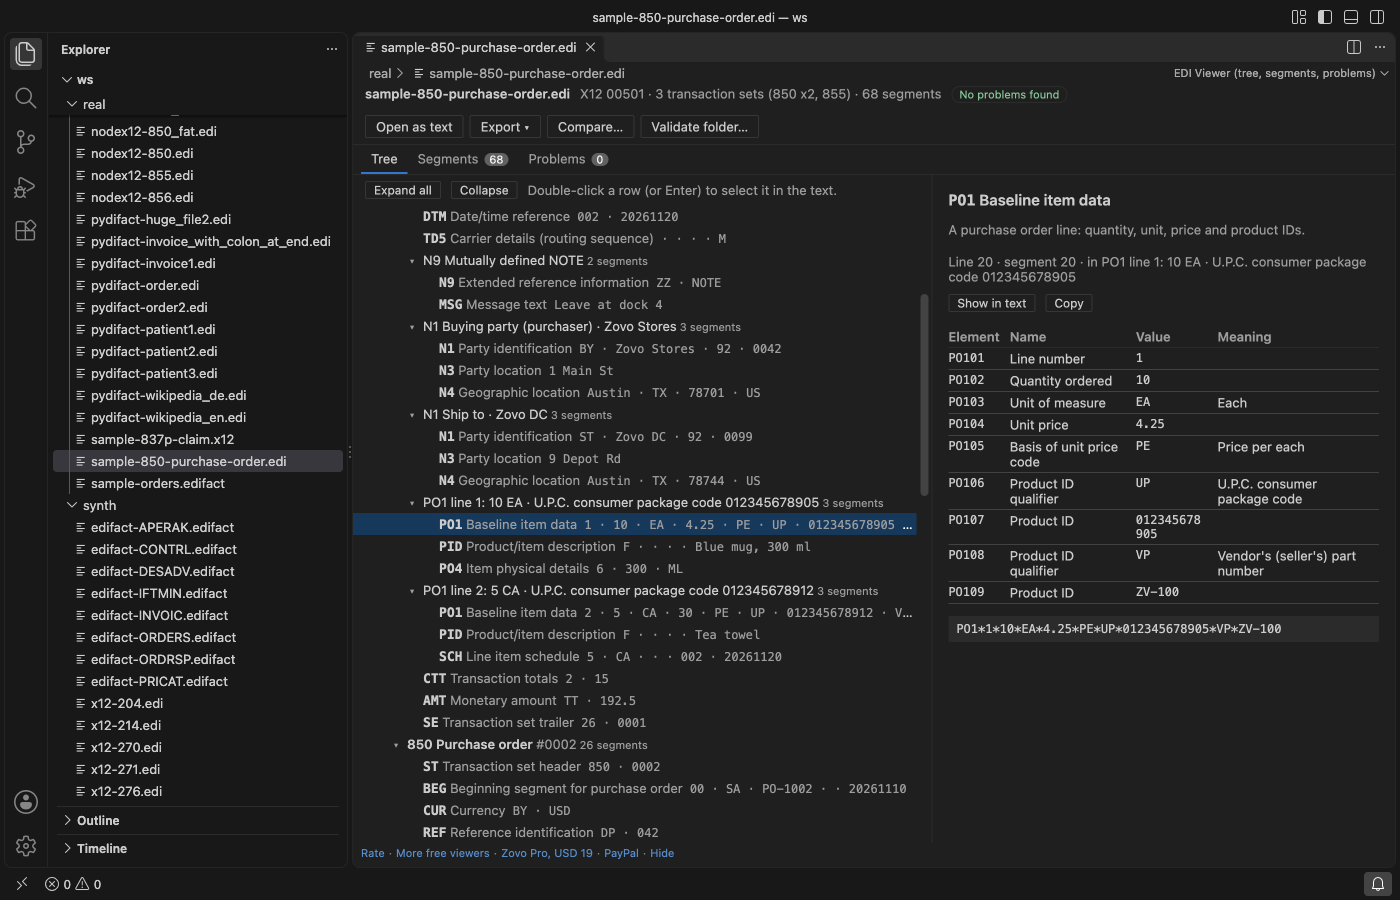
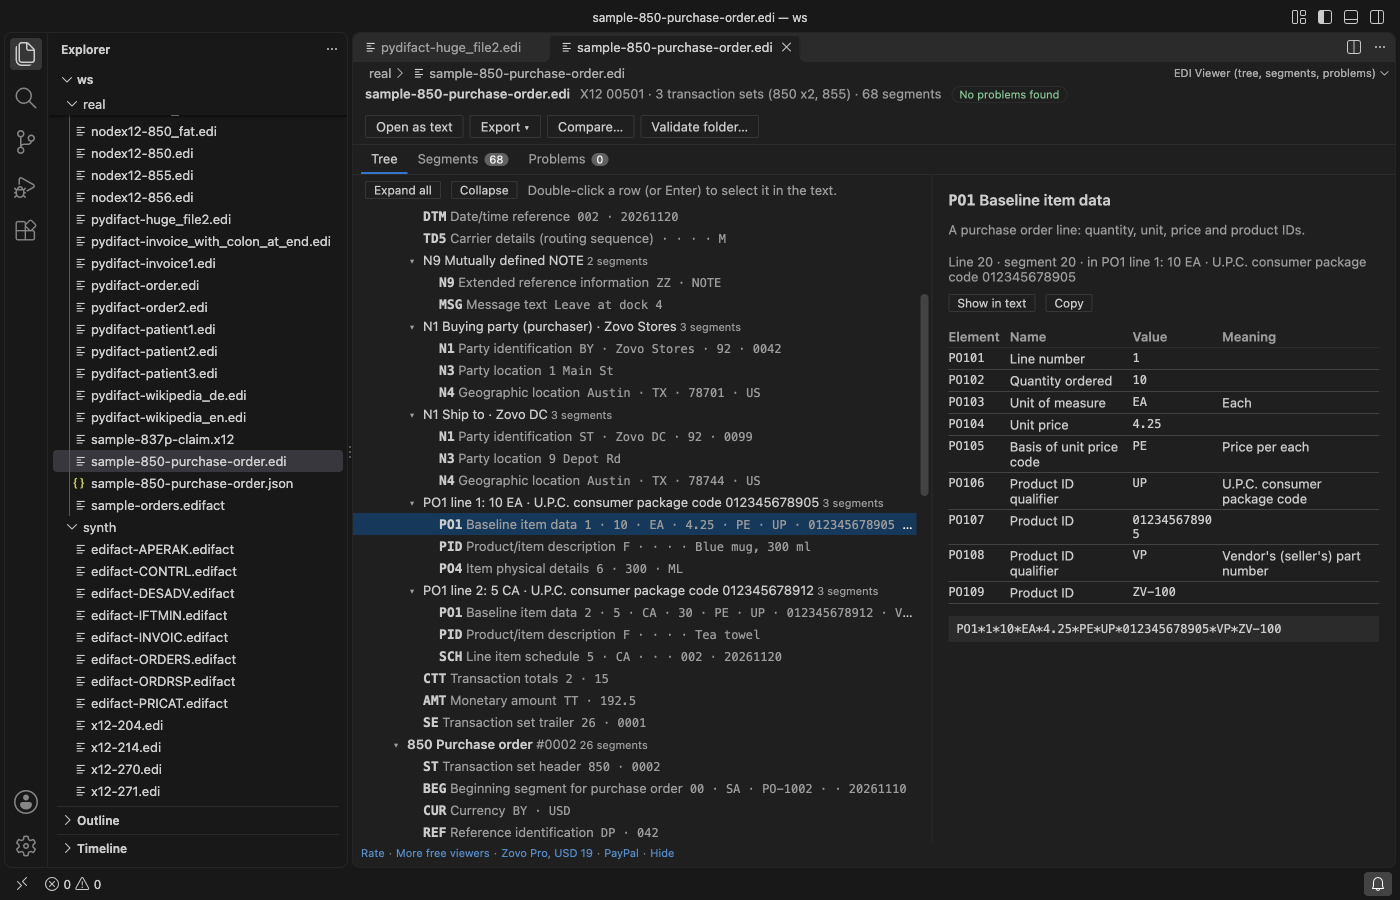
wip: state at resume 2

diff --git a/src/core/tools.js b/src/core/tools.js
@@ -234,7 +234,7 @@ function changeRow(a, b, i, j, ignore) {
 function mdEsc(s) { return String(s).replace(/\|/g, '\\|').replace(/[<>]/g, (c) => (c === '<' ? '&lt;' : '&gt;')).replace(/\r?\n/g, ' '); }
 
 function compareMarkdown(r, nameA, nameB) {
-  const out = [`# EDI comparison: ${mdEsc(nameA)} and ${mdEsc(nameB)}`, ''];
+  const out = [`# EDI comparison of ${mdEsc(nameA)} and ${mdEsc(nameB)}`, ''];
   if (r.error) return out.concat([r.error, '']).join('\n');
   out.push(`${r.segmentsA} segments in ${mdEsc(nameA)}, ${r.segmentsB} in ${mdEsc(nameB)}. ${r.same} the same, ${r.changed} changed, ${r.added} added, ${r.removed} removed.${r.ignoreControl ? ' Control numbers and envelope dates and times were ignored.' : ''}`, '');
   if (!r.rows.length) { out.push('The files have the same segments.', ''); return out.join('\n'); }
@@ -264,7 +264,7 @@ function reportRow(rel, m, err) {
 function reportMarkdown(rows, root, stopped) {
   const ok = rows.filter((r) => r.status === 'ok').length;
   const bad = rows.filter((r) => r.status === 'errors').length;
-  const out = [`# EDI folder check: ${mdEsc(root)}`, '', `${rows.length} EDI file${rows.length === 1 ? '' : 's'} checked: ${ok} without problems, ${bad} with errors, ${rows.filter((r) => r.status === 'warnings').length} with warnings only, ${rows.filter((r) => r.status === 'not read').length} not read.${stopped ? ' The check was stopped before the end.' : ''}`, ''];
+  const out = [`# EDI folder check of ${mdEsc(root)}`, '', `${rows.length} EDI file${rows.length === 1 ? '' : 's'} checked: ${ok} without problems, ${bad} with errors, ${rows.filter((r) => r.status === 'warnings').length} with warnings only, ${rows.filter((r) => r.status === 'not read').length} not read.${stopped ? ' The check was stopped before the end.' : ''}`, ''];
   out.push('| File | Standard | Status | Errors | Warnings | Transactions | Types | Sender | Receiver | First problem |', '|---|---|---|---|---|---|---|---|---|---|');
   for (const r of rows) out.push(`| ${mdEsc(r.file)} | ${r.standard} | ${r.status} | ${r.errors} | ${r.warnings} | ${r.transactions} | ${mdEsc(r.types)} | ${mdEsc(r.from)} | ${mdEsc(r.to)} | ${mdEsc(r.first)} |`);
   return out.join('\n') + '\n';

diff --git a/src/text.js b/src/text.js
@@ -25,12 +25,13 @@ function hoverMarkdown(vscode, det, r) {
   md.isTrusted = false;
   md.supportHtml = false;
   const esc = (s) => String(s).replace(/[\\`*_{}[\]()#+\-.!|<>]/g, '\\$&');
+  const code = (s) => String(s).replace(/[`\r\n]/g, ''); // inside a code span nothing needs escaping, only no backtick
   if (r.index === 0) {
-    md.appendMarkdown(`**${esc(r.tag)}**${d.name ? ` · ${esc(d.name)}` : ' · segment not in the dictionary'}`);
+    md.appendMarkdown(`\`${code(r.tag)}\`${d.name ? ` · ${esc(d.name)}` : ' · segment not in the dictionary'}`);
     if (d.desc) md.appendMarkdown(`\n\n${esc(d.desc)}`);
     return md;
   }
-  md.appendMarkdown(`**${esc(d.id)}**${d.name ? ` · ${esc(d.name)}` : ''}${d.compName ? ` · ${esc(d.compName)}` : ''}${d.required ? ' (mandatory)' : ''}`);
+  md.appendMarkdown(`\`${code(d.id)}\`${d.name ? ` · ${esc(d.name)}` : ''}${d.compName ? ` · ${esc(d.compName)}` : ''}${d.required ? ' (mandatory)' : ''}`);
   let v = r.value;
   if (det.standard === 'edifact') v = E.unescape(E.splitRaw(r.value, det.sep.component, det.sep.release)[(r.component || 1) - 1] || '', det.sep.release);
   if (v !== '') md.appendMarkdown(`\n\nValue: \`${String(v).replace(/`/g, "'").slice(0, 200)}\`${d.meaning ? ` = ${esc(d.meaning)}` : ''}`);

diff --git a/test/tools.test.js b/test/tools.test.js
@@ -76,7 +76,7 @@ test('compare: same file, changed quantity, added and removed segments, control 
   const strict = T.compareModels(a, b, { ignoreControl: false });
   assert.ok(strict.rows.some((x) => x.tag === 'ISA' && x.diffs.some((d) => d.id === 'ISA13')));
   const md = T.compareMarkdown(r, 'a.edi', 'b.edi');
-  assert.match(md, /^# EDI comparison: a\.edi and b\.edi/);
+  assert.match(md, /^# EDI comparison of a\.edi and b\.edi/);
   assert.match(md, /PO102 \(Quantity ordered\): `10` → `12`/);
   assert.match(md, /Control numbers and envelope dates and times were ignored/);
   assert.match(T.compareModels(a, E.parse(F.edifact(['ORDERS']))).error, /One file is X12, the other EDIFACT/);

diff --git a/test/ext.test.js b/test/ext.test.js
@@ -127,7 +127,7 @@ test('compare: cancel on the file or the option keeps the try; a comparison on s
     assert.ok(c.result.rows[0].diffs.some((d) => d.id === 'PO102'));
     assert.strictEqual(s.state.get('ediViewer.proTrial').compare, 1);
     await v.send({ type: 'saveCompare' });
-    assert.match(s.log.opened.at(-1).getText(), /# EDI comparison: po-1001\.edi and po-1001-v2\.edi/);
+    assert.match(s.log.opened.at(-1).getText(), /# EDI comparison of po-1001\.edi and po-1001-v2\.edi/);
   } finally { s.restore(); }
 });
 
